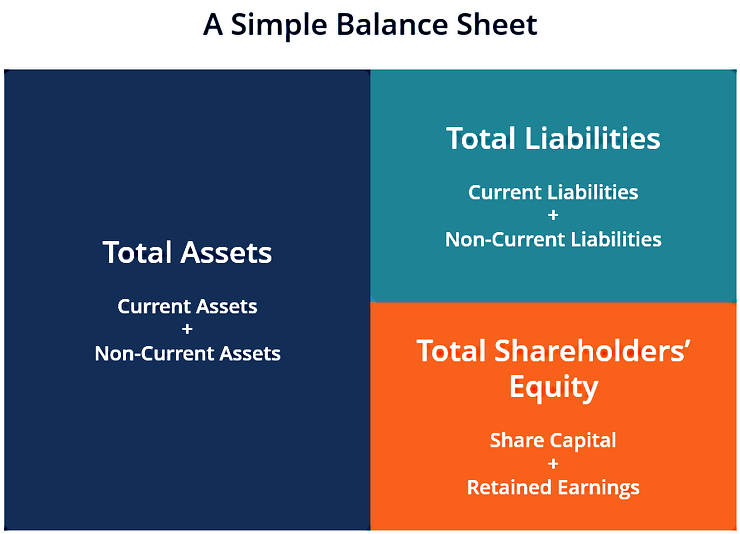
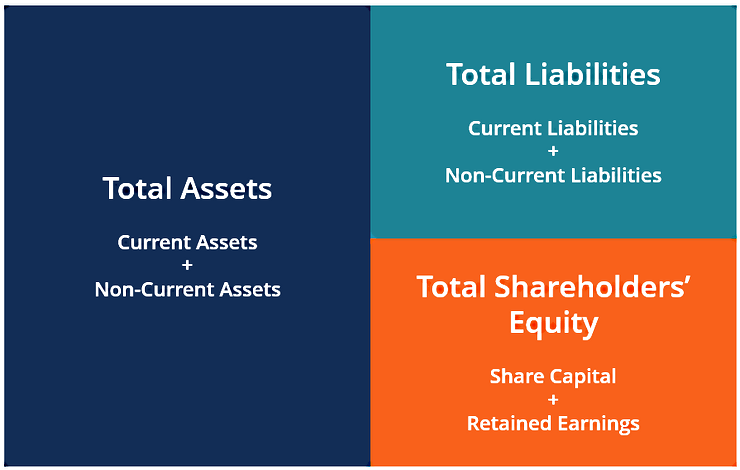
mods

diff --git a/_pages/chap03.debit-credit.md b/_pages/chap03.debit-credit.md
@@ -52,10 +52,15 @@ Every transaction has (at least) two components:
   -  *For example*; Money comes from account & goes into another. 
  
 
+### 3. Accounting Equation
+
+![](/assets/misc/balance.sheet.png)
+
+
 ---
 
 
-### 3. Chart of Accounts
+### 4. Chart of Accounts
 
 Example C.O.A. Numbering
 
@@ -78,6 +83,7 @@ Other resources:
 
 - [Chart-of-accounts Quickbooks.intuit](https://quickbooks.intuit.com/global/resources/accounting/chart-of-accounts-definition-and-example/)   
 - [Chart of Account / Polaris - Very Good](https://polaristaxandaccounting.com/chart-of-accounts-the-ultimate-guide-with-examples/)   
+
 
 - NAHCB Chart of Accounts   
 <div class="pdf-container">
